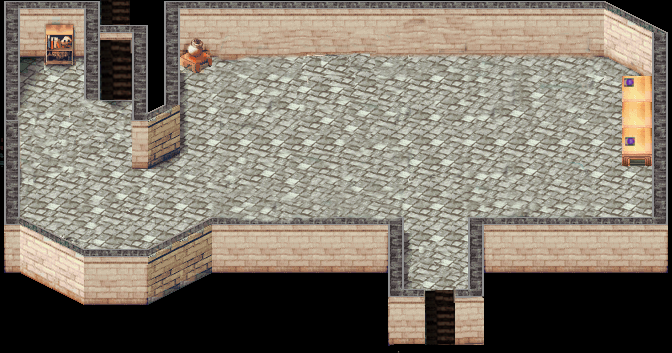
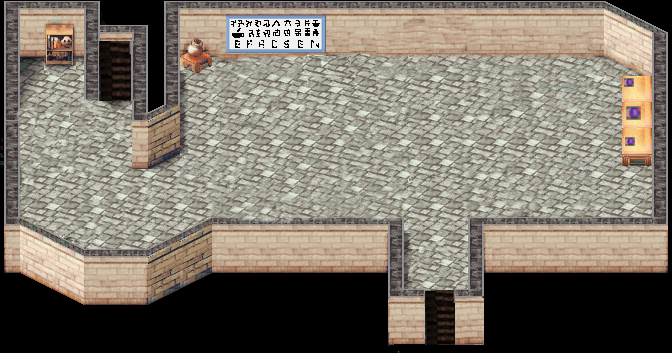
Modified Cellar Map

diff --git a/src/cellarScene.py b/src/cellarScene.py
@@ -20,7 +20,7 @@ class CellarScene(EscenaPygame):
         self.keys = pygame.key.get_pressed()
         self.done = False
         self.player = jugador1
-        fondo = pygame.image.load("../res/maps/firstWithDoor.png")
+        fondo = pygame.image.load("../res/maps/first.png")
         self.level = Level(fondo, self.screen_rect.copy(), self.player)
         self.grupoJugadores = pygame.sprite.Group(jugador1)
                 
